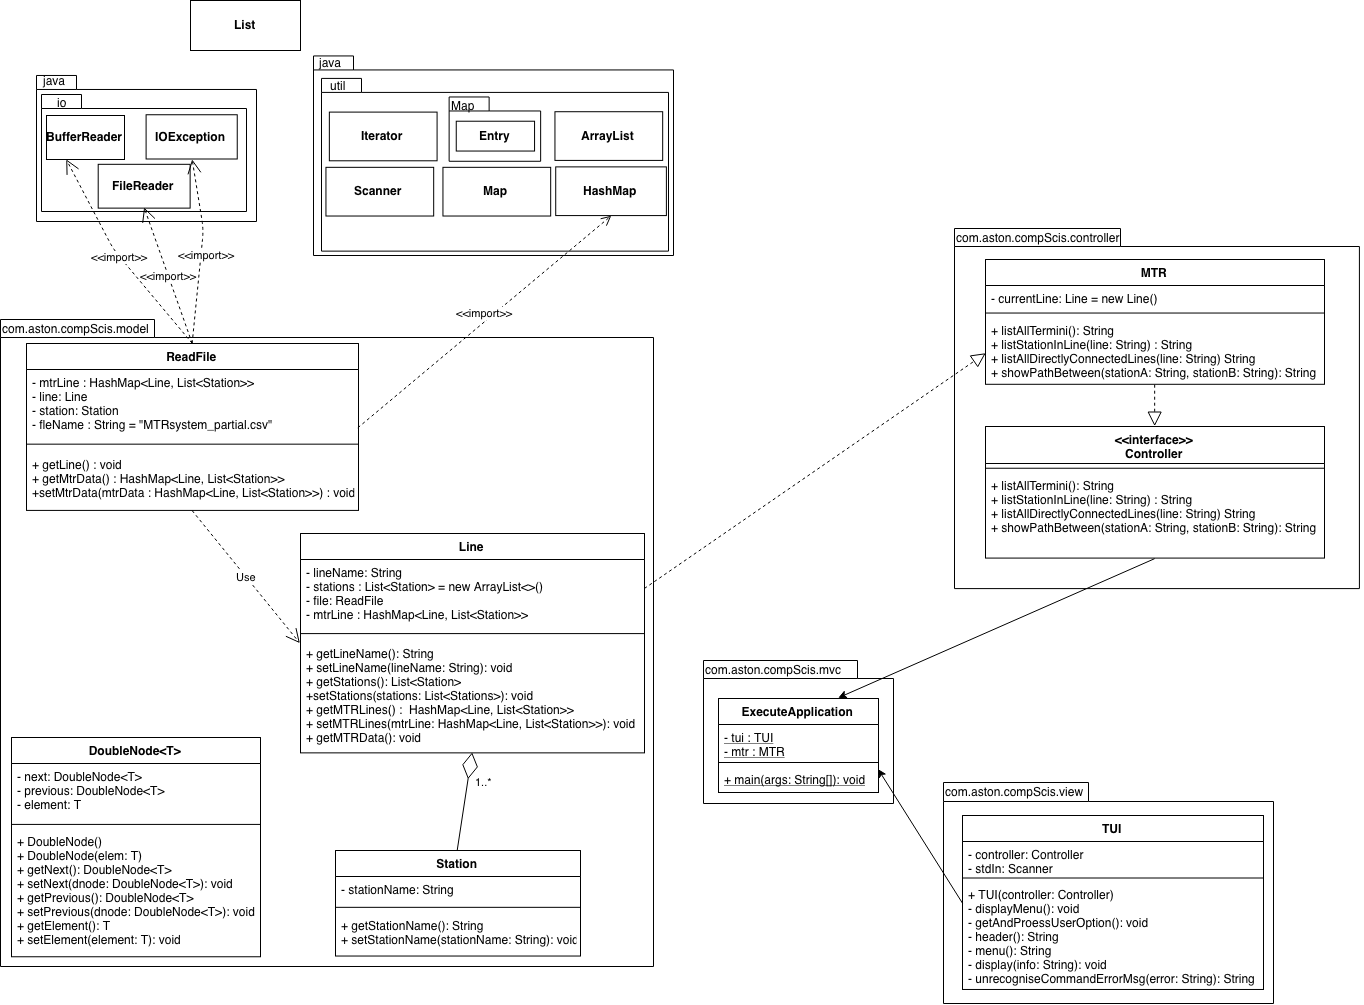
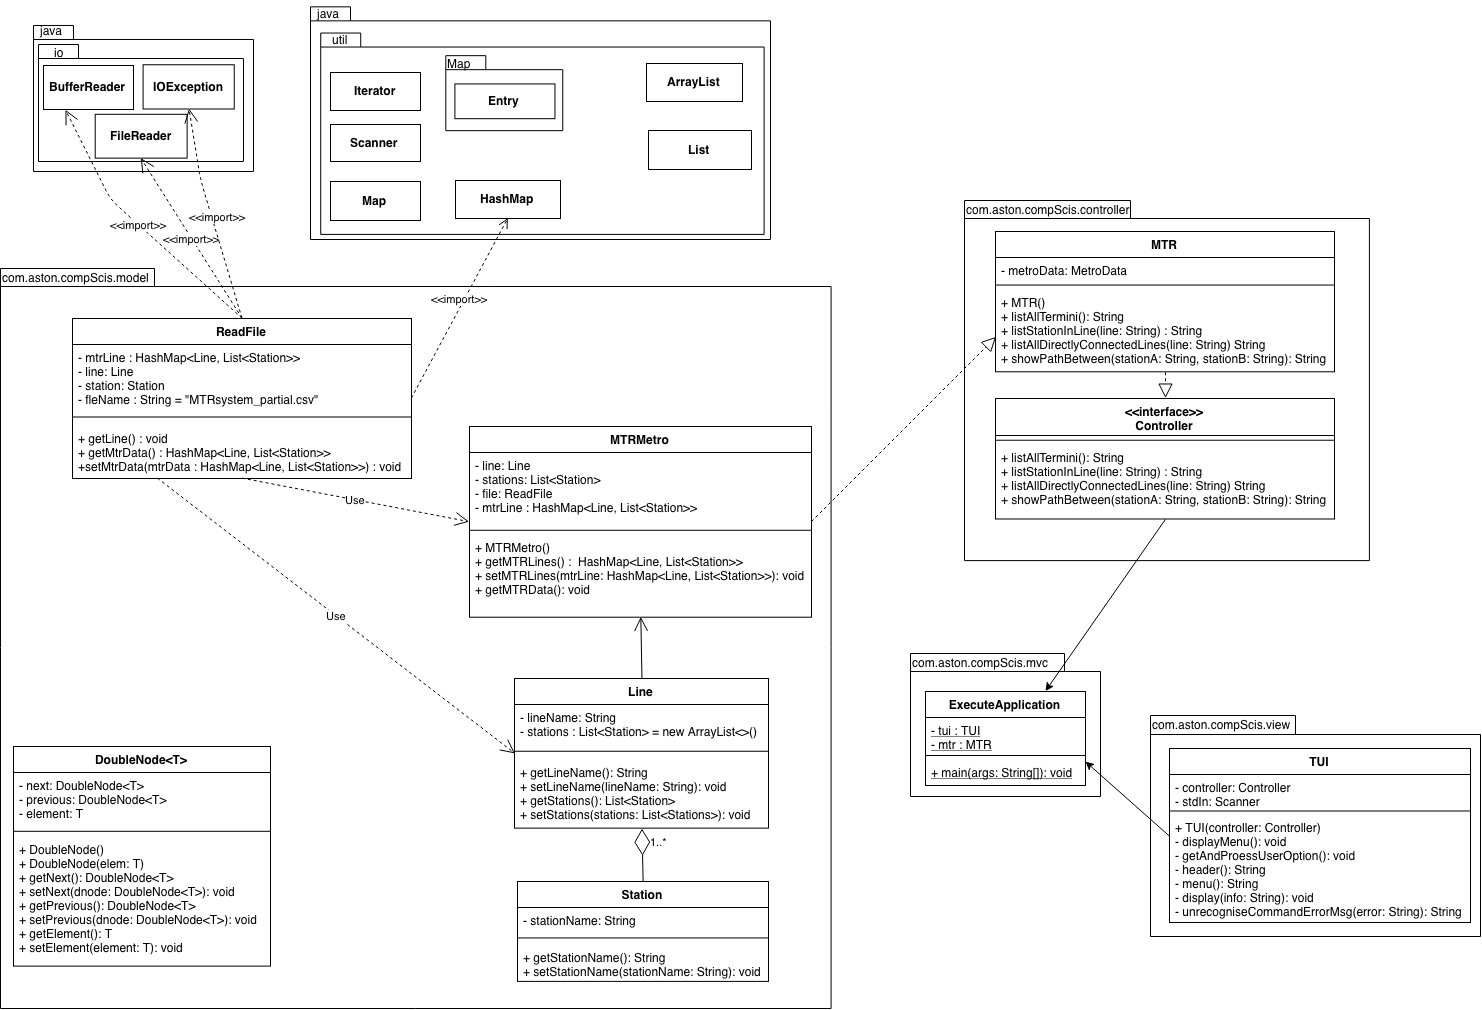
Changes to UML diagram

diff --git a/src/com/aston/compScis/model/ReadFile.java b/src/com/aston/compScis/model/ReadFile.java
@@ -21,9 +21,7 @@ import java.util.List;
 public class ReadFile {
 	// Hash Map Data Structure to save the Line and Station
 	private HashMap<Line, List<Station>> mtrLine;
-	// Hash Map Data Structure to save the Station and Line
-	private HashMap<Station, List<Line>> mtrStation;
-	// Variable to get the File Name
+	// File Name Path Name
 	private String fileName = "MTRsystem_partial.csv";
 	// Line Class
 	private Line line;
@@ -71,59 +69,6 @@ public class ReadFile {
 	}
 	
 	/**
-	 * Store the data of the CSV file to the HashMap(Station, List of Lines)
-	 * 
-	 * @return MTR Data as a HashMap with the Key of Stations
-	 */
-	public void getStation() {
-		// Variable to store and split information
-		String dataLine;
-		// Variable to detect the delimiting code
-		String cvsSplitby = ",";
-
-		// Grab the CSV data
-		try (BufferedReader br = new BufferedReader(new FileReader(fileName))) {
-			// Create a new HashMap
-			mtrStation = new HashMap<>();
-			//
-			List<Line> relatedLines = new ArrayList<>();
-			// While the data is being grabbed
-			while ((dataLine = br.readLine()) != null) {
-				// Split the data and store in an Array
-				String[] listOfStations = dataLine.split(cvsSplitby);
-				// Create empty line
-				line = new Line();
-				// Store the key based on the first index of the Array
-				line.setLineName(listOfStations[0]);
-				// Loop on the Array CSV line
-				for (int i = 1; i < listOfStations.length; i++) {
-					// Create a new Station
-					station = new Station();
-					// Set the new Station
-					station.setStationName(listOfStations[i]);
-					// Add the station to the List of Stations
-					line.getStations().add(station);
-				}
-				
-				/*
-				 * Compare between the station name and if the line contains that station
-				 * Store the HashMap
-				 */
-				for(int i = 0; i < listOfStations.length; i++) {
-					if(station.getStationName().equals(line.getStations().get(i).toString())) {
-						relatedLines.add(line);
-					}
-				}
-				
-				// Place it into the HashMap
-				mtrStation.put(station,relatedLines);
-			}
-		} catch (IOException e) {
-			e.printStackTrace();
-		}
-	}
-	
-	/**
 	 * Get the MTRData with Line
 	 * 
 	 * @return mtrData
@@ -141,22 +86,6 @@ public class ReadFile {
 		this.mtrLine = mtrLine;
 	}
 
-	/**
-	 * Get the MTRData as Station
-	 * 
-	 * @return mtrData
-	 */
-	public HashMap<Station, List<Line>> getMtrStation() {
-		return mtrStation;
-	}
-
-	/**
-	 * Set the MTRData with Line
-	 * @param mtrStation
-	 */
-	public void setMtrStation(HashMap<Station, List<Line>> mtrStation) {
-		this.mtrStation = mtrStation;
-	}
 	
 	
 }
